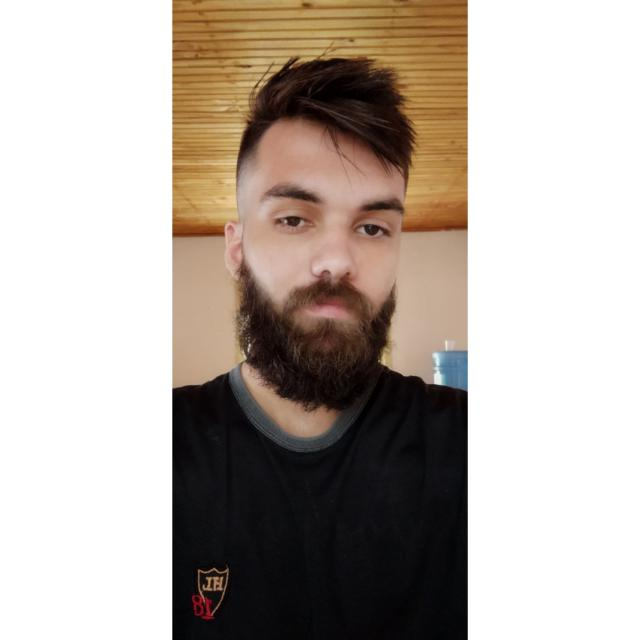
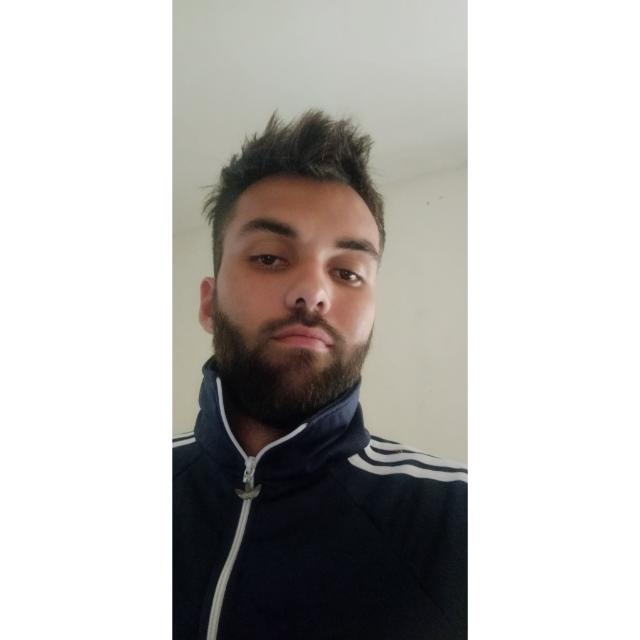
Alteração foto perfil

diff --git a/views/_theme.php b/views/_theme.php
@@ -5,7 +5,7 @@
         <meta property="og:title" content="Rodrigo tutz"/>
         <meta property="og:description" content="Portifólio de Rodrigo Antunes">
         <meta property="og:url" content="https://github.com/Rodrigotutz"/>
-        <meta property="og:image" content="https://avatars.githubusercontent.com/u/77134687?s=400&u=481bc930b592b0d35790cd290d9a3429b5b14b9d&v=4" />
+        <meta property="og:image" content="https://i.imgur.com/2fhzjTr.jpg" />
         <meta property="og:type" content="website"/>
 
         <meta charset="UTF-8">
